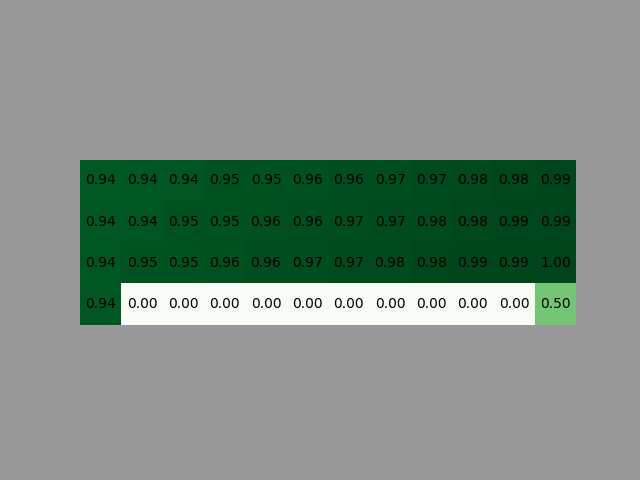
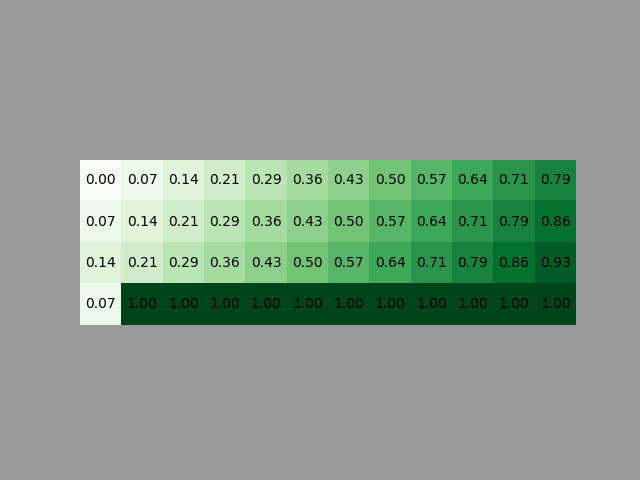
changes to remain consistent with theory

Changed region(s): [[0.125, 0.3125, 0.9062, 0.6875]]

diff --git a/model-free/td/passive/td_trace/td_trace.py b/model-free/td/passive/td_trace/td_trace.py
@@ -3,7 +3,6 @@ import numpy as np
 import matplotlib.pyplot as plt
 from matplotlib.patches import Rectangle
 import pprint as pp
-import sys
 import time
     
 
@@ -113,6 +112,8 @@ def find_optimal_policy(utility_matrix, env):
             actions_array[action] = value
         optimal_policy[state] = np.argmax(actions_array)
 
+    optimal_policy[37:48] = -1
+
     # graph optimal policy
     print_policy(optimal_policy, (4, 12))
     return optimal_policy
@@ -170,13 +171,11 @@ def main():
     utility_matrix = np.zeros(state_len)
     utility_matrix = np.float64(utility_matrix)
     # reward matrix
-    reward_matrix = np.full(state_len, -1)
-    reward_matrix[37:47] = -10
-    reward_matrix[47] = 100
-    # trace matrix
     trace_matrix = np.full(state_len, 1)
-    
+    # policy we use to estimate the values.
     optimal_policy = [2 for _ in range(state_len//4)] + [2 for _ in range(state_len//4)] + [1 for _ in range((state_len//4) - 1)] + [2] + [0 for _ in range((state_len//4) - 1)] + [2]
+    optimal_policy = np.array(optimal_policy)
+    optimal_policy[37:48] = -1
     last_changed = 0
     for epoch in range(tot_epoch + 1):
         old_utility_matrix = utility_matrix.copy()
@@ -185,8 +184,7 @@ def main():
         while True:
              # take action from policy
             action = optimal_policy[observation]
-            new_observation, _, terminated, truncated, _ = env.step(action)
-            reward = reward_matrix[new_observation]
+            new_observation, reward, terminated, truncated, _ = env.step(action)
             delta = reward + (gamma * (utility_matrix[new_observation] - utility_matrix[observation]))
             #Adding +1 in the trace matrix (only the state visited)
             trace_matrix[observation] += 1
@@ -200,27 +198,19 @@ def main():
 
         # draw q-values
         if epoch % (tot_epoch / 10) == 0:
-            utility_matrix[37:47] = -10
-            utility_matrix[47] = 100
             values = normalize_list(utility_matrix)
             # print(utility_matrix)
             plot_values(values, (4, 12), epoch)
             print(f"******** Episode {epoch} completed ********")
 
-        # rounded_normalized_old_values = np.round(old_utility_matrix, 4)
-        # rounded_normalized_changed_values = np.round(utility_matrix, 4)
-
         if((old_utility_matrix != utility_matrix).any()):
             last_changed = epoch
 
+    env.close()
 
     optimal_policy = find_optimal_policy(utility_matrix, env)
     print(f"utility matrix last changed at epoch {last_changed}")
     play_game(optimal_policy)
-
-    # utility matrix stopped changing at epoch 393694
-
-    env.close()
 
 if __name__ ==  "__main__":
     main()

diff --git a/model-free/td/passive/td_0/td_0.py b/model-free/td/passive/td_0/td_0.py
@@ -77,10 +77,11 @@ def find_optimal_policy(utility_matrix, env):
             value = 0
             for transition in transition_list:
                 transition_prob, next_state, reward, done = transition
-                value += (utility_matrix[next_state] * transition_prob)                
+                value += (utility_matrix[next_state] * transition_prob)          
             actions_array[action] = value
         optimal_policy[state] = np.argmax(actions_array)
 
+    optimal_policy[37:48] = -1
     # graph optimal policy
     print_policy(optimal_policy, (4, 12))
     return optimal_policy
@@ -153,14 +154,9 @@ def main():
     ## initialize utility matrix to estimate value of utility
     utility_matrix = np.zeros(state_len)
     utility_matrix = np.float64(utility_matrix)
-    # reward matrix
-    reward_matrix = np.full(state_len, -1)
-    reward_matrix[37:47] = -10
-    reward_matrix[47] = 100
-    ## optimal policy.
-    # [1 1 1 1 1 1 1 1 1 1 1 2 1 0 0 0 0 0 0 0 0 1 1 2 0 0 0 0 0 0 0 0 0 0 1 2 0 2 3 2 0 1 0 3 2 3 1 3]
     optimal_policy = [2 for _ in range(state_len//4)] + [2 for _ in range(state_len//4)] + [1 for _ in range((state_len//4) - 1)] + [2] + [0 for _ in range((state_len//4) - 1)] + [2]
     optimal_policy = np.array(optimal_policy)
+    optimal_policy[37:48] = -1
     print_policy(optimal_policy, (4, 12))
     last_changed = 0
     for epoch in range(tot_epoch + 1):
@@ -169,17 +165,13 @@ def main():
         while True:
              # take action from policy
             action = optimal_policy[observation]
-            new_observation, _, terminated, truncated, _ = env.step(action)
-            reward = reward_matrix[new_observation]
-            # update the utility matrix
+            new_observation, reward, terminated, truncated, _ = env.step(action)
             utility_matrix[observation] = get_return(utility_matrix, observation, new_observation, reward, alpha, gamma)
             observation = new_observation
             if terminated or truncated: break
 
         # draw q-values
         if epoch % (tot_epoch / 10) == 0:
-            utility_matrix[37:47] = -10
-            utility_matrix[47] = 100
             values = normalize_list(utility_matrix)
             # print(utility_matrix)
             plot_values(values, (4, 12), epoch)

diff --git a/model-free/td/passive/td_0/td_0.md b/model-free/td/passive/td_0/td_0.md
@@ -2,4 +2,6 @@ Applying the TD algorithm means to move step by step considering only the state 
 
 That’s it, after each step we get the utility value and the reward at t+1 and we update the value at t. The TD(0) algorithm ignores the past states as shown by the shadow I added above those states.
 
-Convergence is at 405719
+Convergence is in the range of 370,000 - 420,000.
+
+Note that the terminal values in our utility estimates are always one. This is because I normalized the actual utility values. The terminal states have no utilities and therefore they remain zero, evaluating to 1 when normalized.

diff --git a/model-free/td/passive/td_trace/td_trace.md b/model-free/td/passive/td_trace/td_trace.md
@@ -13,4 +13,6 @@ In TD(1), we do not need the end of the episode. We can update all the previous 
 
 This ensures an early convergence and learning is faster.
 
-For numbers, running a 1,000,000 epochs shows that convergence for td_trace is at 393694.
+For numbers, running a 1,000,000 epochs shows that convergence for td_trace is at 580,000 - 620,000 area.
+
+Note that the terminal values in our utility estimates are always one. This is because I normalized the actual utility values. The terminal states have no utilities and therefore they remain zero, evaluating to 1 when normalized.
